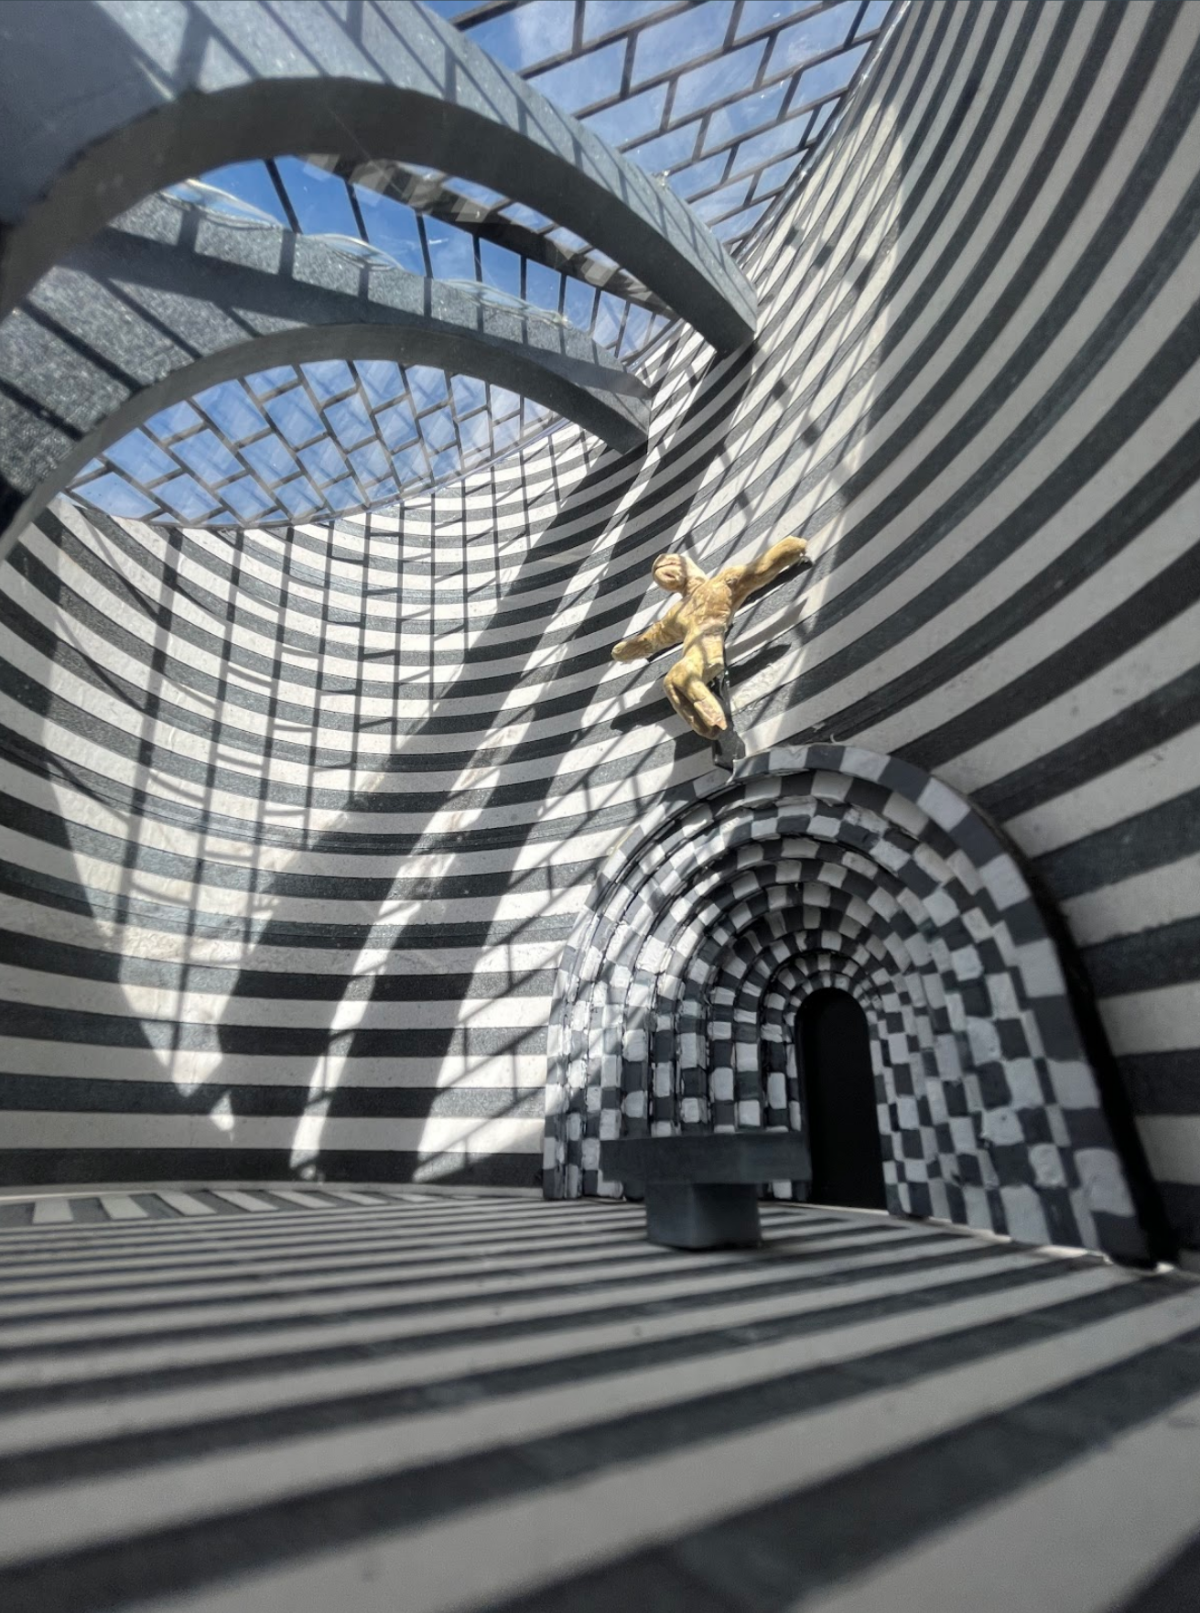
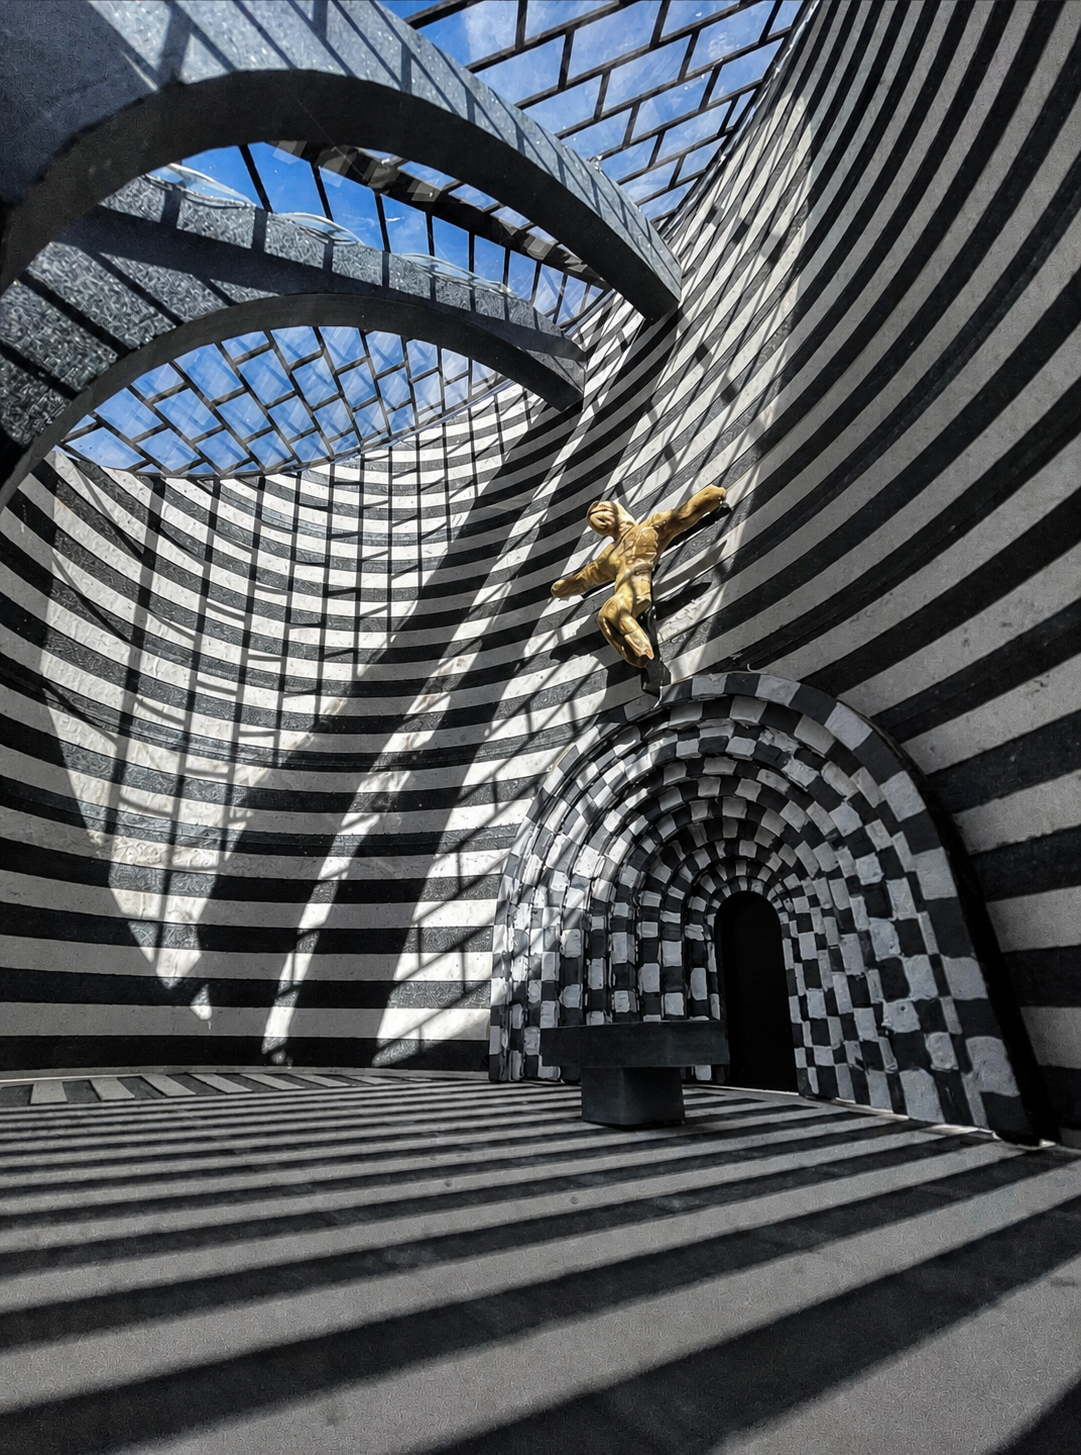
feat: replace work page hero images

diff --git a/work-page/work.html b/work-page/work.html
@@ -39,15 +39,15 @@
   <ul class="grid" id="work" role="list" tabindex="-1">
 
     <li class="tile"><figure>
-      <a href="project.html?p=sheet-metal-chair">
-        <img class="hero-sheet-metal-chair" src="assets/heroes/sheet-metal-chair.jpg" alt="Steel chair with a curved seat and matching task light in a dark studio" width="1600" height="2286" decoding="async">
+      <a href="project.html?p=sheet-metal-chair" aria-label="Sheet Metal Chair — Furniture">
+        <img src="assets/sheet-metal-chair.svg" alt="" width="884" height="630" decoding="async">
       </a>
       <figcaption><h2 class="t">Sheet Metal Chair</h2><span class="c">Furniture</span></figcaption>
     </figure></li>
 
     <li class="tile"><figure>
-      <a href="project.html?p=deployable-chair">
-        <img class="hero-deployable-chair" src="assets/heroes/deployable-chair.jpg" alt="Clear acrylic deployable-chair prototype on a fabrication table" width="4032" height="3024" decoding="async">
+      <a href="project.html?p=deployable-chair" aria-label="Deployable Chair — Thesis">
+        <img src="assets/deployable-chair.svg" alt="" width="884" height="630" decoding="async">
       </a>
       <figcaption><h2 class="t">Deployable Chair</h2><span class="c">Thesis</span></figcaption>
     </figure></li>
@@ -82,14 +82,14 @@
 
     <li class="tile"><figure>
       <a href="project.html?p=amplifier-case">
-        <img class="hero-amplifier-case" src="assets/heroes/amplifier-case.jpg" alt="Vacuum-tube amplifier case with a wood top panel and front controls" width="1600" height="1600" loading="lazy" decoding="async">
+        <img class="hero-contain" src="assets/heroes/amplifier-case.png?v=20260827" alt="Vacuum-tube amplifier with a dark metal case, wood panel, and front controls" width="1254" height="1254" loading="lazy" decoding="async">
       </a>
       <figcaption><h2 class="t">Amplifier Case</h2><span class="c">Product</span></figcaption>
     </figure></li>
 
     <li class="tile"><figure>
       <a href="project.html?p=san-giovanni">
-        <img class="hero-san-giovanni" src="assets/heroes/san-giovanni.png" alt="Black-and-white striped architectural model with a small gold figure" width="1200" height="1613" loading="lazy" decoding="async">
+        <img class="hero-contain" src="assets/heroes/san-giovanni.png?v=20260827" alt="Black-and-white striped architectural model with a small gold figure" width="1081" height="1455" loading="lazy" decoding="async">
       </a>
       <figcaption><h2 class="t">San Giovanni Lighting</h2><span class="c">Lighting</span></figcaption>
     </figure></li>

diff --git a/work-page/index.html b/work-page/index.html
@@ -45,15 +45,15 @@
   <ul class="grid" id="work" role="list">
 
     <li class="tile"><figure>
-      <a href="project.html?p=sheet-metal-chair">
-        <img class="hero-sheet-metal-chair" src="assets/heroes/sheet-metal-chair.jpg" alt="Steel chair with a curved seat and matching task light in a dark studio" width="1600" height="2286" decoding="async">
+      <a href="project.html?p=sheet-metal-chair" aria-label="Sheet Metal Chair — Furniture">
+        <img src="assets/sheet-metal-chair.svg" alt="" width="884" height="630" decoding="async">
       </a>
       <figcaption><h2 class="t">Sheet Metal Chair</h2><span class="c">Furniture</span></figcaption>
     </figure></li>
 
     <li class="tile"><figure>
-      <a href="project.html?p=deployable-chair">
-        <img class="hero-deployable-chair" src="assets/heroes/deployable-chair.jpg" alt="Clear acrylic deployable-chair prototype on a fabrication table" width="4032" height="3024" decoding="async">
+      <a href="project.html?p=deployable-chair" aria-label="Deployable Chair — Thesis">
+        <img src="assets/deployable-chair.svg" alt="" width="884" height="630" decoding="async">
       </a>
       <figcaption><h2 class="t">Deployable Chair</h2><span class="c">Thesis</span></figcaption>
     </figure></li>
@@ -88,14 +88,14 @@
 
     <li class="tile"><figure>
       <a href="project.html?p=amplifier-case">
-        <img class="hero-amplifier-case" src="assets/heroes/amplifier-case.jpg" alt="Vacuum-tube amplifier case with a wood top panel and front controls" width="1600" height="1600" loading="lazy" decoding="async">
+        <img class="hero-contain" src="assets/heroes/amplifier-case.png?v=20260827" alt="Vacuum-tube amplifier with a dark metal case, wood panel, and front controls" width="1254" height="1254" loading="lazy" decoding="async">
       </a>
       <figcaption><h2 class="t">Amplifier Case</h2><span class="c">Product</span></figcaption>
     </figure></li>
 
     <li class="tile"><figure>
       <a href="project.html?p=san-giovanni">
-        <img class="hero-san-giovanni" src="assets/heroes/san-giovanni.png" alt="Black-and-white striped architectural model with a small gold figure" width="1200" height="1613" loading="lazy" decoding="async">
+        <img class="hero-contain" src="assets/heroes/san-giovanni.png?v=20260827" alt="Black-and-white striped architectural model with a small gold figure" width="1081" height="1455" loading="lazy" decoding="async">
       </a>
       <figcaption><h2 class="t">San Giovanni Lighting</h2><span class="c">Lighting</span></figcaption>
     </figure></li>

diff --git a/work-page/styles.css b/work-page/styles.css
@@ -198,13 +198,12 @@ button:focus-visible {
   transition: transform 0.62s var(--ease);
 }
 
-/* Selected source images are portrait or square. These crop positions keep
-   the finished object in the measured 1.403:1 tile frame without changing
-   the grid geometry. */
-.tile img.hero-sheet-metal-chair { object-position: 50% 78%; }
-.tile img.hero-deployable-chair  { object-position: 50% 72%; }
-.tile img.hero-amplifier-case    { object-position: 50% 62%; }
-.tile img.hero-san-giovanni      { object-position: 50% 55%; }
+/* Source images use the full measured frame. This prevents subject cropping. */
+.tile img.hero-contain {
+  object-fit: contain;
+  object-position: center;
+  background: #fff;
+}
 
 .tile figure:hover img,
 .tile a:focus-visible img { transform: scale(1.045); }
